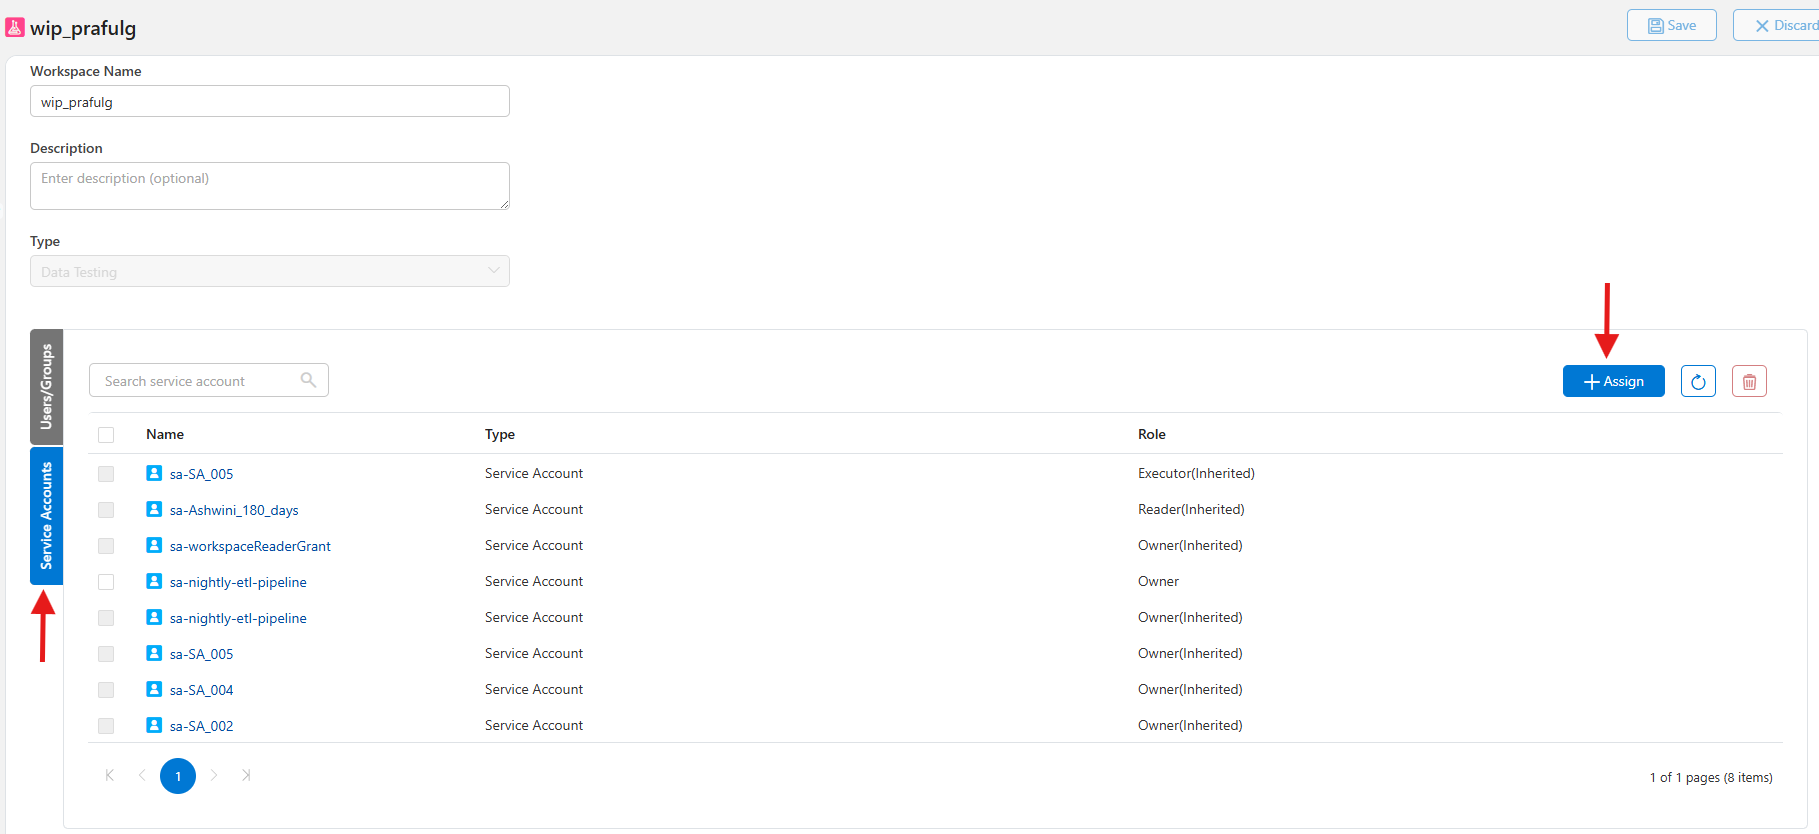
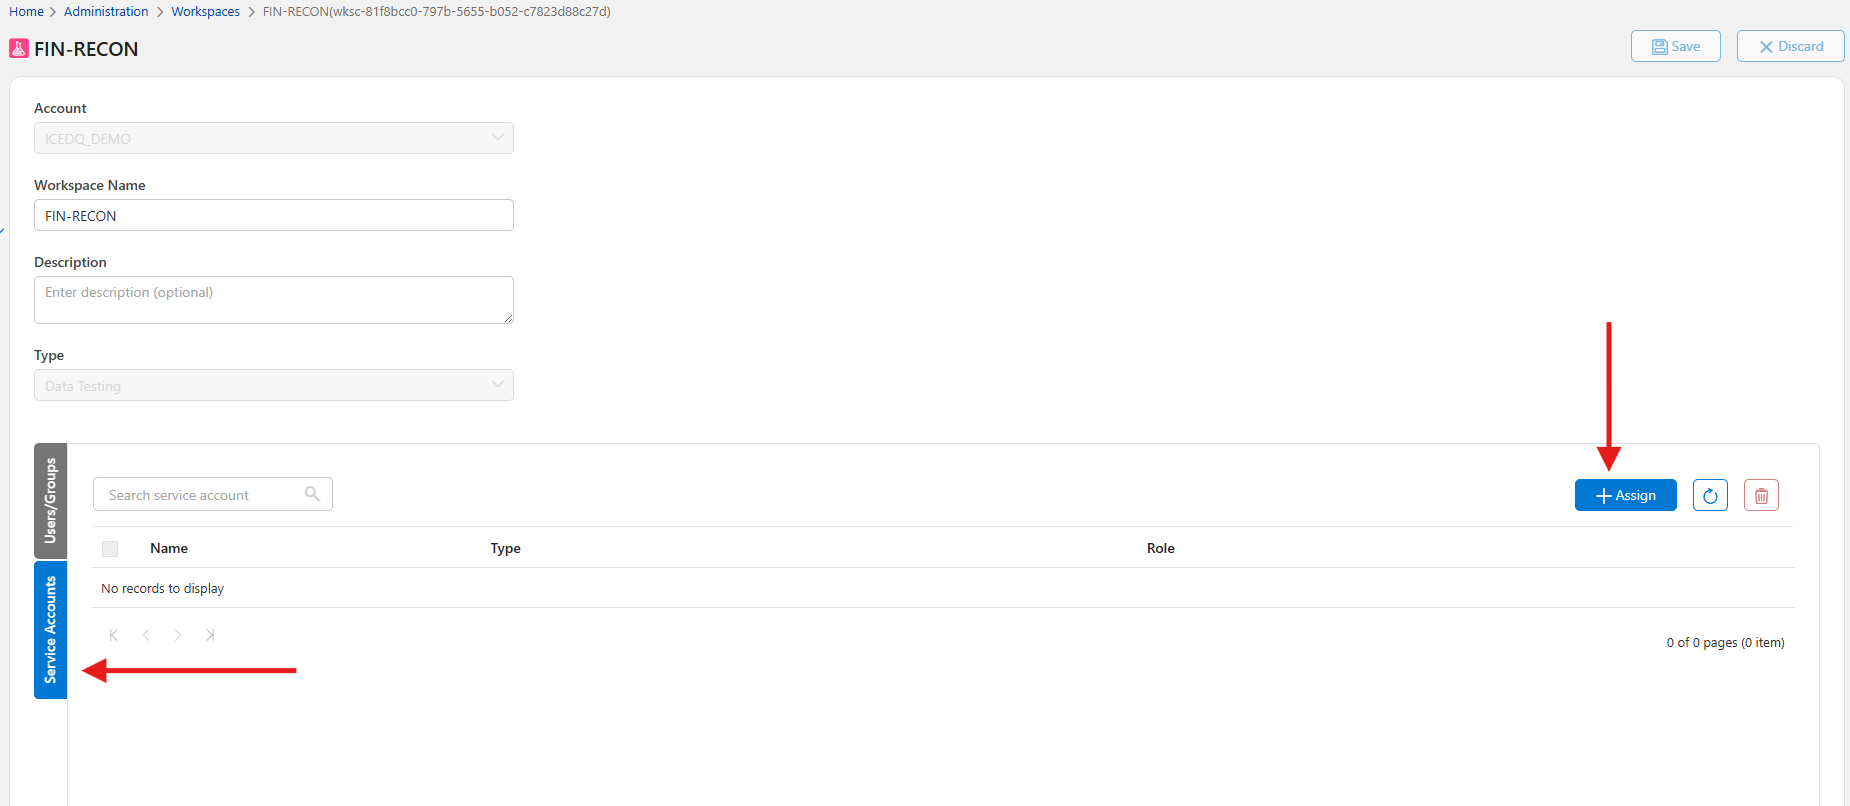
updated docs

diff --git a/docs/GitHub Actions Guide.md b/docs/GitHub Actions Guide.md
@@ -1,0 +1,215 @@
+# iceDQ GitHub Actions Guide
+
+This guide will help you get started with iceDQ's GitHub Actions to automate your tasks.
+
+## Available GitHub Actions
+
+| Action | What it does |
+|---|---|
+| [`icedq-tools/export-action`](https://github.com/marketplace/actions/icedq-export) | Initiates an export, polls until complete, downloads the bundle ZIP, optionally uploads it as a workflow artifact. |
+| [`icedq-tools/generate-mapping-action`](https://github.com/marketplace/actions/icedq-generate-mapping) | Analyses the export bundle, queries the target workspace to auto-match connections, parameters, and custom fields by name and type, and produces a ready-to-use mapping JSON for the import action. |
+| [`icedq-tools/import-action`](https://github.com/marketplace/actions/icedq-import) | Submits a bundle to a target workspace, polls until complete, parses the import log for skipped rules, optionally fails the workflow on any skip (strict: true). |
+
+---
+
+## Prerequisites
+
+### 1. Create a Service Account
+
+For promoting your resources from lower environment to higher, you will need to create **service account** in both environments. Follow the steps in [How to Create a Service Account](Service Account.md#how-to-create-a-service-account).
+
+> **Note:** Service accounts are available from **iceDQ version 7.8.0** and above.
+
+### 2. Assign Roles to the Service Account
+
+You are required to provide appropriate role to each service account to Export or Import resources.
+
+| Action | Minimum required Role |
+|---|---|
+| Export | Reader |
+| Generate Mapping | Contributor |
+| Import | Contributor |
+
+Follow the steps in [How to Assign Role to the Service Account](Service Account.md#how-to-assign-role-to-the-service-account).
+
+### 3. Collect your iceDQ identifiers
+
+You'll need these for each environment of your iceDQ application:
+
+- **Org ID**
+- **Account ID**
+- **Workspace ID**
+- **iceDQ instance URL**
+- **Keycloak URL** — base URL up to the realm name, e.g. `https://auth.example.com/realms/icedq`
+
+---
+
+## Quick Start
+
+### Promote a Workflow on every push
+
+```yaml
+# .github/workflows/promote-workflow.yml
+name: Promote Workflow from DEV to UAT
+
+on:
+  push:
+    branches: [main]
+  workflow_dispatch:
+
+concurrency:
+  group: ${{ github.workflow }}
+  cancel-in-progress: false
+
+jobs:
+  export-workflow:
+    runs-on: ubuntu-latest
+    environment: DEV
+    timeout-minutes: 45
+    steps:
+      - name: Export workflow from DEV environment
+        uses: icedq-tools/export-action@v1
+        with:
+          icedq-url:       ${{ vars.ICEDQ_URL }}
+          keycloak-url:    ${{ vars.ICEDQ_KEYCLOAK_URL }}
+          org-id:          ${{ vars.ICEDQ_ORG_ID }}
+          client-id:       ${{ secrets.ICEDQ_CLIENT_ID }}
+          client-secret:   ${{ secrets.ICEDQ_CLIENT_SECRET }}
+          account-id:      ${{ vars.ICEDQ_ACCOUNT_ID }}
+          workspace-id:    ${{ vars.ICEDQ_WORKSPACE_ID }}
+          resource:        workflow
+          id:              ${{ vars.FINANCE_WORKFLOW_ID }}
+          include-child:   true
+          output-file:     ./exports/finance.zip
+          artifact-name:   icedq-finance-workflow-bundle
+
+  generate-workflow-mapping:
+    runs-on: ubuntu-latest
+    needs: export-workflow
+    environment: UAT
+    timeout-minutes: 30
+    steps:
+      - name: Download bundle from export job
+        uses: actions/download-artifact@v4
+        with:
+          name: icedq-finance-workflow-bundle
+          path: ./exports
+
+      - name: Generate mapping for UAT environment
+        uses: icedq-tools/generate-mapping-action@v1
+        with:
+          icedq-url:      ${{ vars.ICEDQ_URL }}
+          keycloak-url:   ${{ vars.ICEDQ_KEYCLOAK_URL }}
+          org-id:         ${{ vars.ICEDQ_ORG_ID }}
+          client-id:      ${{ secrets.ICEDQ_CLIENT_ID }}
+          client-secret:  ${{ secrets.ICEDQ_CLIENT_SECRET }}
+          account-id:     ${{ vars.ICEDQ_ACCOUNT_ID }}
+          workspace-id:   ${{ vars.ICEDQ_WORKSPACE_ID }}
+          bundle:         ./exports/finance.zip
+          output-file:    ./mapping/finance-workflow-mapping.json
+          artifact-name:  icedq-finance-workflow-mapping
+
+  import-workflow:
+    runs-on: ubuntu-latest
+    needs: [export-workflow, generate-workflow-mapping]
+    environment: UAT
+    timeout-minutes: 30
+    steps:
+      - name: Download bundle from export job
+        uses: actions/download-artifact@v4
+        with:
+          name: icedq-finance-workflow-bundle
+          path: ./exports
+
+      - name: Download generated mapping
+        uses: actions/download-artifact@v4
+        with:
+          name: icedq-finance-workflow-mapping
+          path: ./mapping
+
+      - name: Import workflow into UAT environment
+        uses: icedq-tools/import-action@v1
+        with:
+          icedq-url:             ${{ vars.ICEDQ_URL }}
+          keycloak-url:          ${{ vars.ICEDQ_KEYCLOAK_URL }}
+          org-id:                ${{ vars.ICEDQ_ORG_ID }}
+          client-id:             ${{ secrets.ICEDQ_CLIENT_ID }}
+          client-secret:         ${{ secrets.ICEDQ_CLIENT_SECRET }}
+          account-id:            ${{ vars.ICEDQ_ACCOUNT_ID }}
+          workspace-id:          ${{ vars.ICEDQ_WORKSPACE_ID }}
+          bundle:                ./exports/finance.zip
+          kind:                  workflows
+          mapping-file:          ./mapping/finance-workflow-mapping.json
+          strict:                false
+          terminate-on-conflict: true
+```
+
+**Notes on this pipeline:**
+- The `generate-workflow-mapping` job runs against the **UAT environment** because it needs to query TARGET workspace (UAT in this example) to auto-match connections by name and type.
+- You can further extend this pipeline to promote the same artifact bundle through all your environments — no re-export per environment, ensuring identical bytes are imported everywhere.
+- `strict: 'true'` fails the job if any rule is skipped (e.g., a missing target connection). The next environment is gated on `needs:` so failures stop the chain.
+
+### Create Mapping Files
+
+The `import-action` requires a `mapping-file` that tells it how to re-link source connections, parameters, and custom fields to their counterparts in the target workspace. There are two ways to produce this file.
+
+#### Option 1 (recommended) — Auto-generate with `generate-mapping-action`
+
+Use `icedq-tools/generate-mapping-action` as a middle job between export and import. It queries the target workspace, matches resources by name and connector type, and writes a ready-to-use mapping JSON automatically. See the [Quick start](#quick-start) example for a complete pipeline.
+
+> If a connection cannot be matched automatically (e.g. different name in target), you can still fall back to a manual mapping for that specific entry.
+
+#### Option 2 — Manual mapping file
+
+Manually author a JSON file and commit it to the repo (e.g. `mappings/uat.json`). Pass its path via the `mapping-file` input of the import action. Useful when auto-matching can't resolve all entries or you need explicit control over every override. In this case, you do not need to add `generate-mapping-action` as a middle job between export and import.
+
+### Mapping file syntax
+
+```json
+{
+  "useFqn": false,
+  "mapping": {
+    "connections": [
+      {
+        "existingId": "conn-source-uuid", // id from source environment
+        "newId":      "conn-target-uuid", // id from target environment
+        "action":     "override"
+      }
+    ],
+    "parameters": [
+      {
+        "existingId": "param-source-uuid",
+        "action":     "append"
+      }
+    ],
+    "customFields": [
+      {
+        "existingId": "source-field-name",
+        "newId":      "target-field-name",
+        "action":     "override"
+      }
+    ]
+  }
+}
+```
+
+### Mapping Field Reference
+
+| Object | Supported actions | What each does |
+|---|---|---|
+| Connections | `override` only | Re-link rules in the target to use `newId` instead of the source's `existingId`. Target connection must already exist. |
+| Custom fields | `override` only | Same as connections. Target field must already exist. |
+| Parameters | `append`, `override`, `upsert` | `append`: add new parameter keys to target without overwriting existing values. `override`: target parameter must already exist. `upsert`: overwrites all matching keys and appends others. **In production**, always specify `append`, `override` or `upsert` explicitly. |
+| useFqn | `true`, `false` | `false`: asset with same name doesn't already exist in the target environment. `true`: an asset with same name does exist in target. |
+
+### Tip: keep mappings under version control
+
+Store mapping files in your repo (e.g., `mappings/qa.json`, `mappings/uat.json`, `mappings/prod.json`) so changes to UUID mappings are auditable and reviewable in PRs.
+
+## References
+
+| Action | Documentation |
+|---|---|
+| export-action | [View Documentation](https://github.com/marketplace/actions/icedq-export) |
+| generate-mapping-action | [View Documentation](https://github.com/marketplace/actions/icedq-generate-mapping) |
+| import-action | [View Documentation](https://github.com/marketplace/actions/icedq-import) |

diff --git a/docs/Service Account.md b/docs/Service Account.md
@@ -1,0 +1,69 @@
+# Service Account
+
+Service accounts in iceDQ are non-human identities used to authenticate automated tools, pipelines, and integrations. Unlike user accounts, they are not tied to a person — they authenticate using a Client ID and Client Secret, and can be granted scoped roles in a specific workspace or account.
+
+## How To: Create a Service Account
+
+1. Navigate to the Administration module.
+
+2. Select the **Service Accounts** tab to create a new Service Account.
+
+3. Click on **New Service Account**
+
+    ![Service Accounts Tab](../.github/images/service-account-tab.png)
+
+4. Configure New Service Account
+
+    a. Provide a name for your account after **sa-**
+
+    b. Select credential's **Rotation Policy**
+
+    c. Click **Save**
+
+    You will now see a pop-up dialog. Here, you can either copy your Client ID and Secret or download it.
+
+    ![Copy Client Credentials](../.github/images/copy-client-credentials.png)
+
+> ❗**Important:** **Client Secret** will be shown only once. So, either copy and save it securely or download it.
+
+---
+
+## How To: Assign Role to the Service Account
+
+1. Decide Where to Assign
+
+    First, decide if you want to assign the service account to a workspace or an account.
+
+    Steps 2 and 3 are the same whether you assign to a Workspace or an Account. Below steps show assigning to a Workspace.
+
+2. Navigate to the Administration module.
+
+3. Select the **Workspaces** tab.
+
+4. Open your workspace and go to **Service Accounts** section.
+
+5. Click on **Assign**.
+
+    ![Service Accounts assignment section](../.github/images/map-service-account-section.png)
+
+6. Select appropriate **Role** (based on least privilege).
+
+7. Select the appropriate Service Account.
+
+8. Click **Assign** to save.
+
+    ![Assign role to service account](../.github/images/assign-role-to-service-account.png)
+
+---
+
+## How To: Rotate Service Account Credentials
+
+1. Navigate to the Administration module. 
+2. Open **Service Accounts** section.
+3. Find your service account and click on three-dots on the right hand side.
+4. Click **Rotate Credentials**
+
+    ![Rotate service account credentials](../.github/images/rotate-sa-credentials.png)
+5. You will see a pop-up dialog. Either copy the new **Client Credentials** or download as a file.
+
+> ⚠ Make sure to rotate your credentials before expiry to avoid service interruption.
